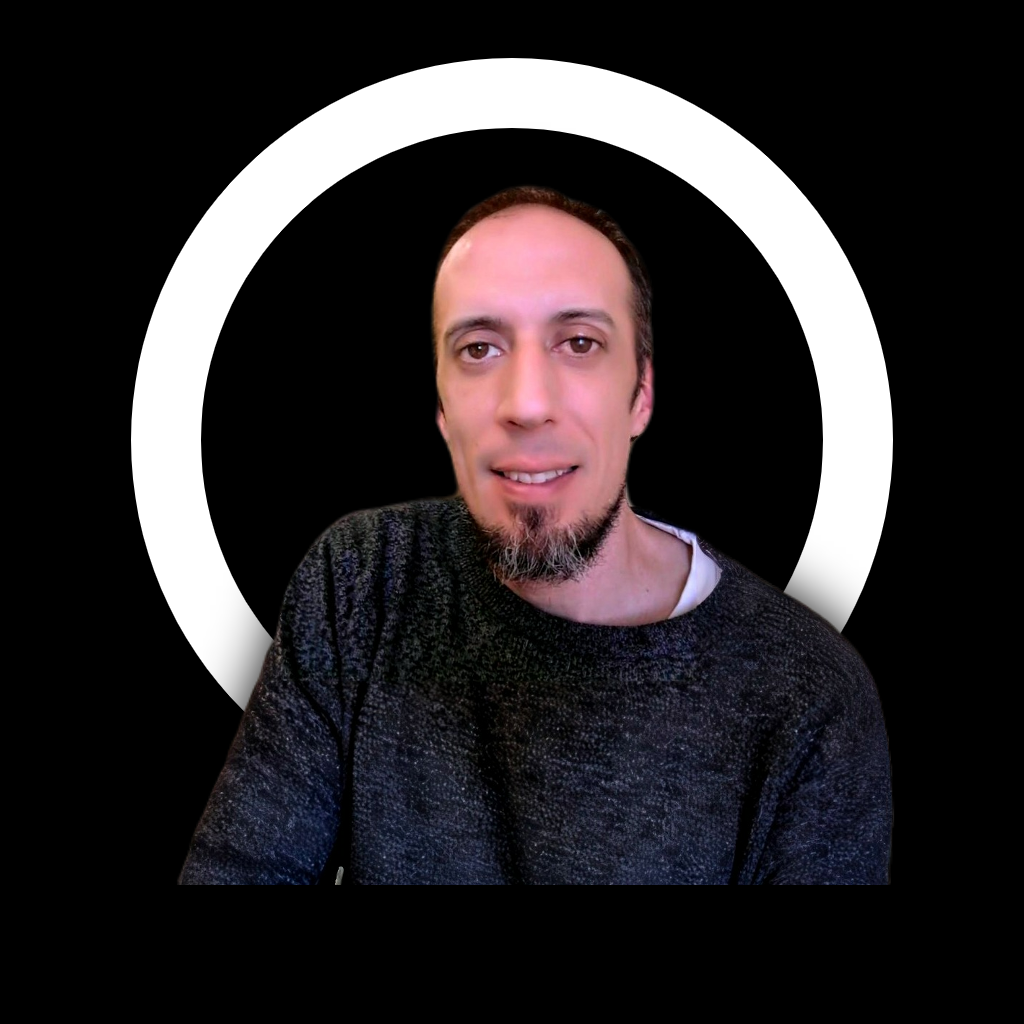
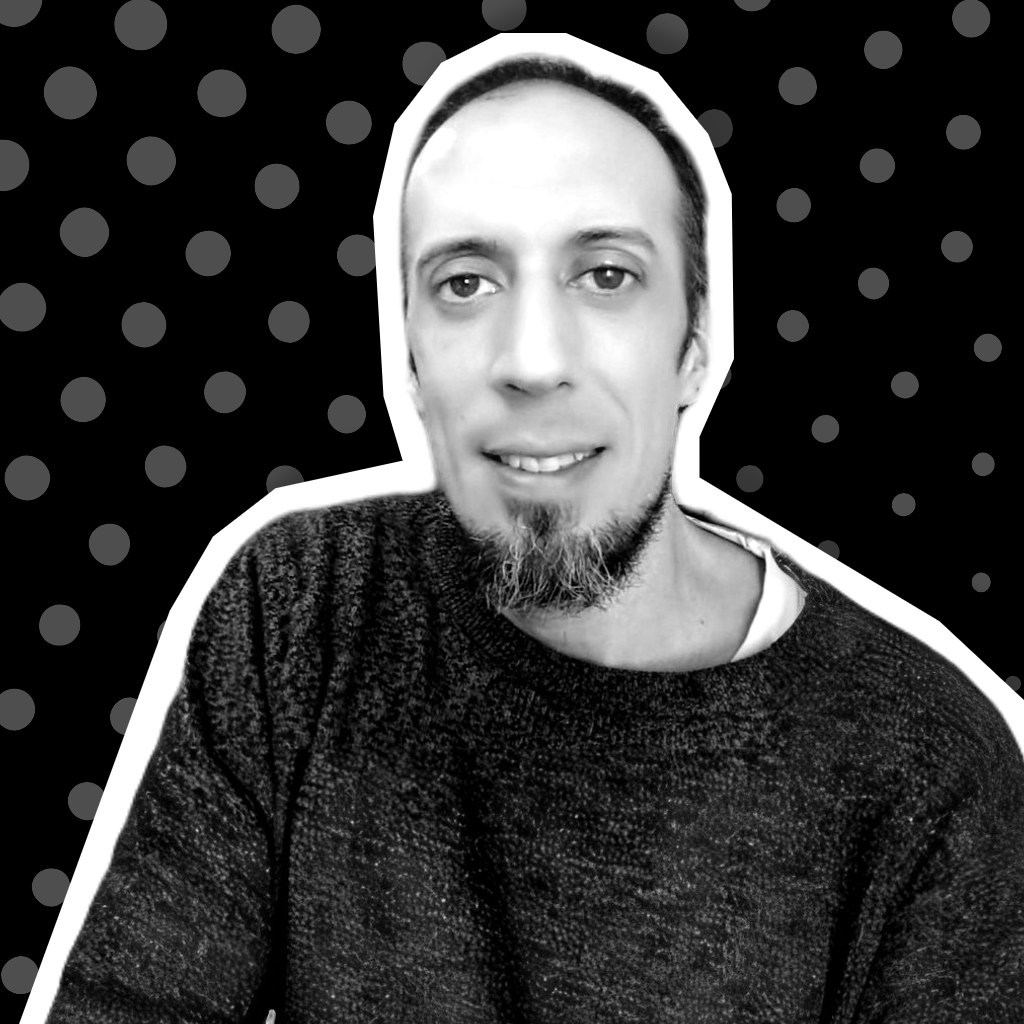
profile

diff --git a/port/portfolio/src/Components/Yo.jsx b/port/portfolio/src/Components/Yo.jsx
@@ -1,6 +1,7 @@
 import React, { useEffect } from 'react';
 import styled from 'styled-components';
 import perfil from "../assets/perfil.jpeg";
+import yo from "../assets/yo.jpg";
 import AOS from 'aos';
 import 'aos/dist/aos.css';
 
@@ -88,26 +89,24 @@ const Image = styled.img`
   }
 `;
 
-const Yo = ({ currentColor }) => {
+const Yo = ({ currentColor, theme }) => {
   useEffect(() => {
     AOS.init({
       duration: 2000,
     });
   }, []);
-  
+
   return (
- <Desktop currentColor ={currentColor}>
-
-<Container data-aos="fade-left" currentColor={currentColor}>
-      <Title  currentColor={currentColor}>Ariel G. Rogel</Title>
-      <Subtitle currentColor={currentColor}>Full Stack Web Developer</Subtitle>
-      <Description currentColor={currentColor}>
-        Javascript | React | NextJS | TailwindCSS | NodeJS | SQL
-      </Description>
+    <Desktop currentColor={{ currentColor, theme }}>
+      <Container data-aos="fade-left" currentColor={currentColor}>
+        <Title currentColor={currentColor}>Ariel G. Rogel</Title>
+        <Subtitle currentColor={currentColor}>Full Stack Web Developer</Subtitle>
+        <Description currentColor={currentColor}>
+          Javascript | React | NextJS | TailwindCSS | NodeJS | SQL
+        </Description>
       </Container>
-
-      <Image data-aos="fade-rigth" src={perfil} alt="yo" />
-      </Desktop>
+      <Image data-aos="fade-right" src={theme === "light" ? yo : perfil} alt="yo" />
+    </Desktop>
   );
 };
 

diff --git a/port/portfolio/src/Components/Foot.jsx b/port/portfolio/src/Components/Foot.jsx
@@ -12,20 +12,26 @@ const Contenedor = styled.footer`
   width: 100%;
   border-radius: 5%;
   background-color: ${props => props.currentColor.primero};
+ 
+  border: 2px ;
+  margin: 2%;
+  margin-top: 8%;
 
-  margin-top: 2%;
-  margin-bottom: 10%;
   display: flex;
   flex-direction: row;
   justify-content: center;
 
   .icono {
-    opacity: 0.8;
+
     font-size: 6rem;
-    padding: 5%;
+    padding-right: 3%;
+    padding-left: 3% ;
     justify-content: center;
     cursor: pointer;
     transition: 1s;
+    margin-left: 10%;
+
+   
     @media (max-width: 700px) {
       font-size: 3em;
       justify-content: start;
@@ -36,6 +42,8 @@ const Contenedor = styled.footer`
 const Img = styled.img`
   border-radius: 50%;
   margin: auto;
+  width: 20%;
+  
 
   @media (max-width: 600px) {
     width: 80px;
@@ -44,7 +52,7 @@ const Img = styled.img`
 
 const Img2 = styled.img`
   width: 180px;
-  margin: 30%;
+  margin-left: 30%;
 
   @media (max-width: 900px) {
     width: 80px;
@@ -77,8 +85,6 @@ const Ancla = styled.a`
 
 const Span = styled.span`
   color: white;
-  margin-top: 7%;
-  margin-right: -5%;
   font-size: small;
 
   @media (max-width: 600px) {
@@ -92,7 +98,7 @@ const Piso = styled.div`
   width: 50%;
   display: flex;
   align-items: center;
-  height: 50%;
+  height: auto;
 `;
 
 export default function Foot(currentColor) {

diff --git a/port/portfolio/src/App.jsx b/port/portfolio/src/App.jsx
@@ -87,7 +87,6 @@ const Div = styled.div`
   display: flex;
   flex-direction: row;
   justify-content: space-around;
-background-color: ${colores.azul};
 
   @media (max-width: 900px) {
     flex-direction: column;
@@ -137,7 +136,8 @@ function App() {
         <Nav currentColor={currentColor} toggleTheme={toggleTheme} style={{ width: '90%', margin: 'auto' }} />
         <Content style={{ backgroundColor: currentColor.primero }}>
           <StyledDiv2 style={{ backgroundColor: currentColor.azul }}>
-            <Yo currentColor={currentColor} />
+          <Yo currentColor={currentColor} theme={theme} />
+
             <Div>
               <Img2 data-aos="fade-up" src={dev} style={{ width: '50%' }} alt='devimg' />
               <About currentColor={currentColor} />

diff --git a/port/portfolio/src/Components/Contacto.jsx b/port/portfolio/src/Components/Contacto.jsx
@@ -9,6 +9,7 @@ const Contenedor = styled.div`
     background-color: ${props => props.currentColor.primero};
     display: flex;
     flex-direction: column;
+    margin: 2%;
 
     `
     const Label = styled.label`
